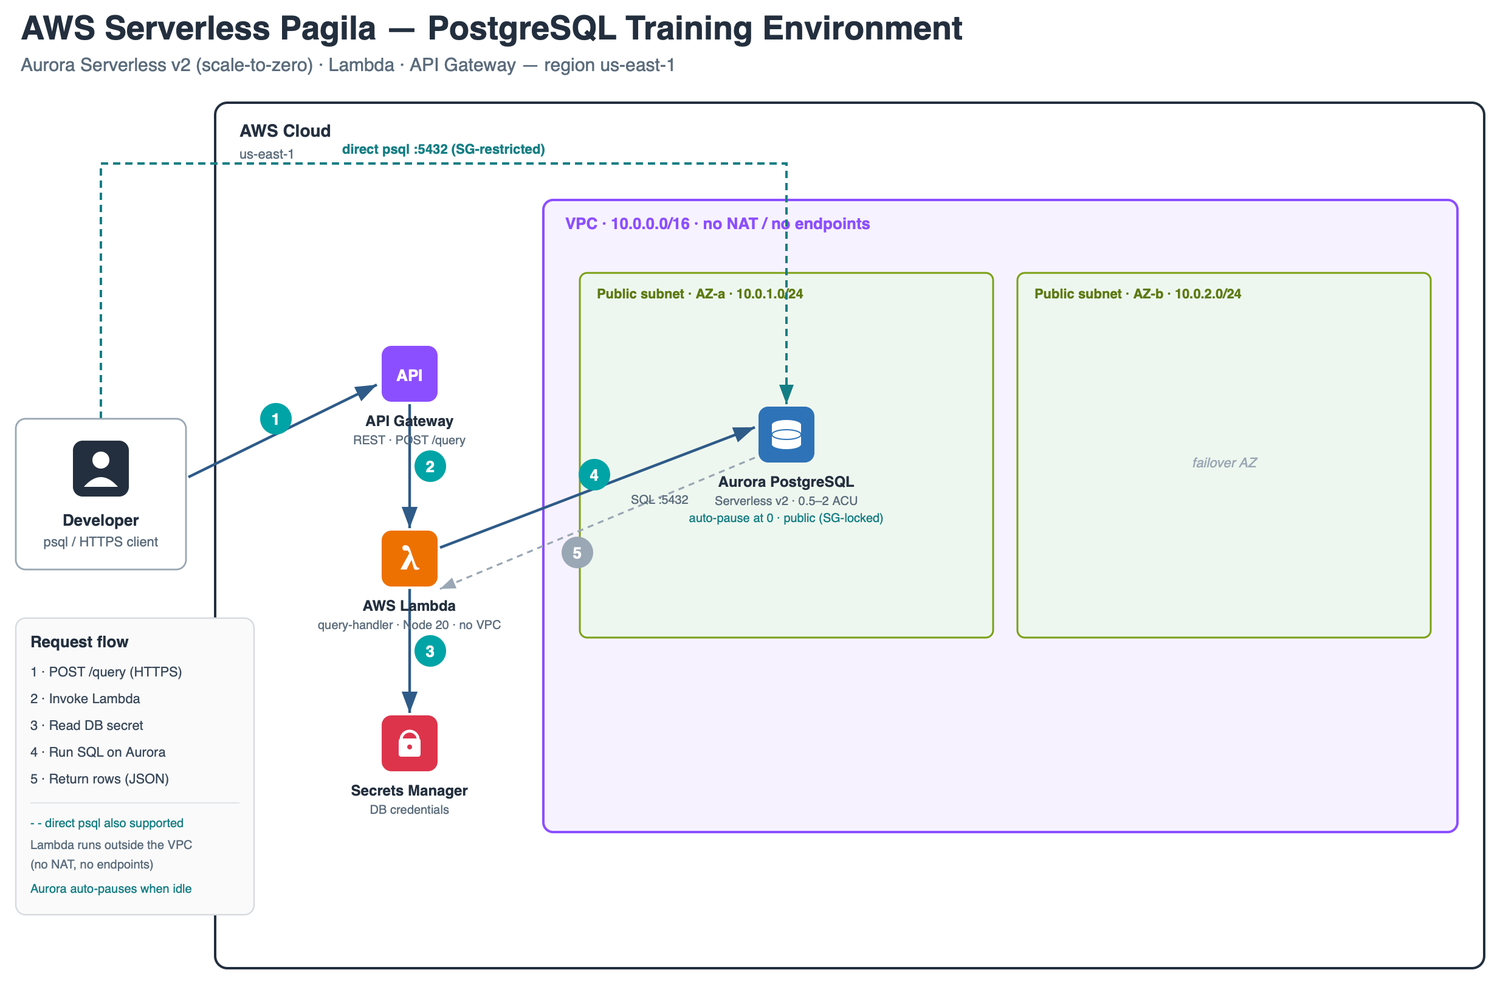
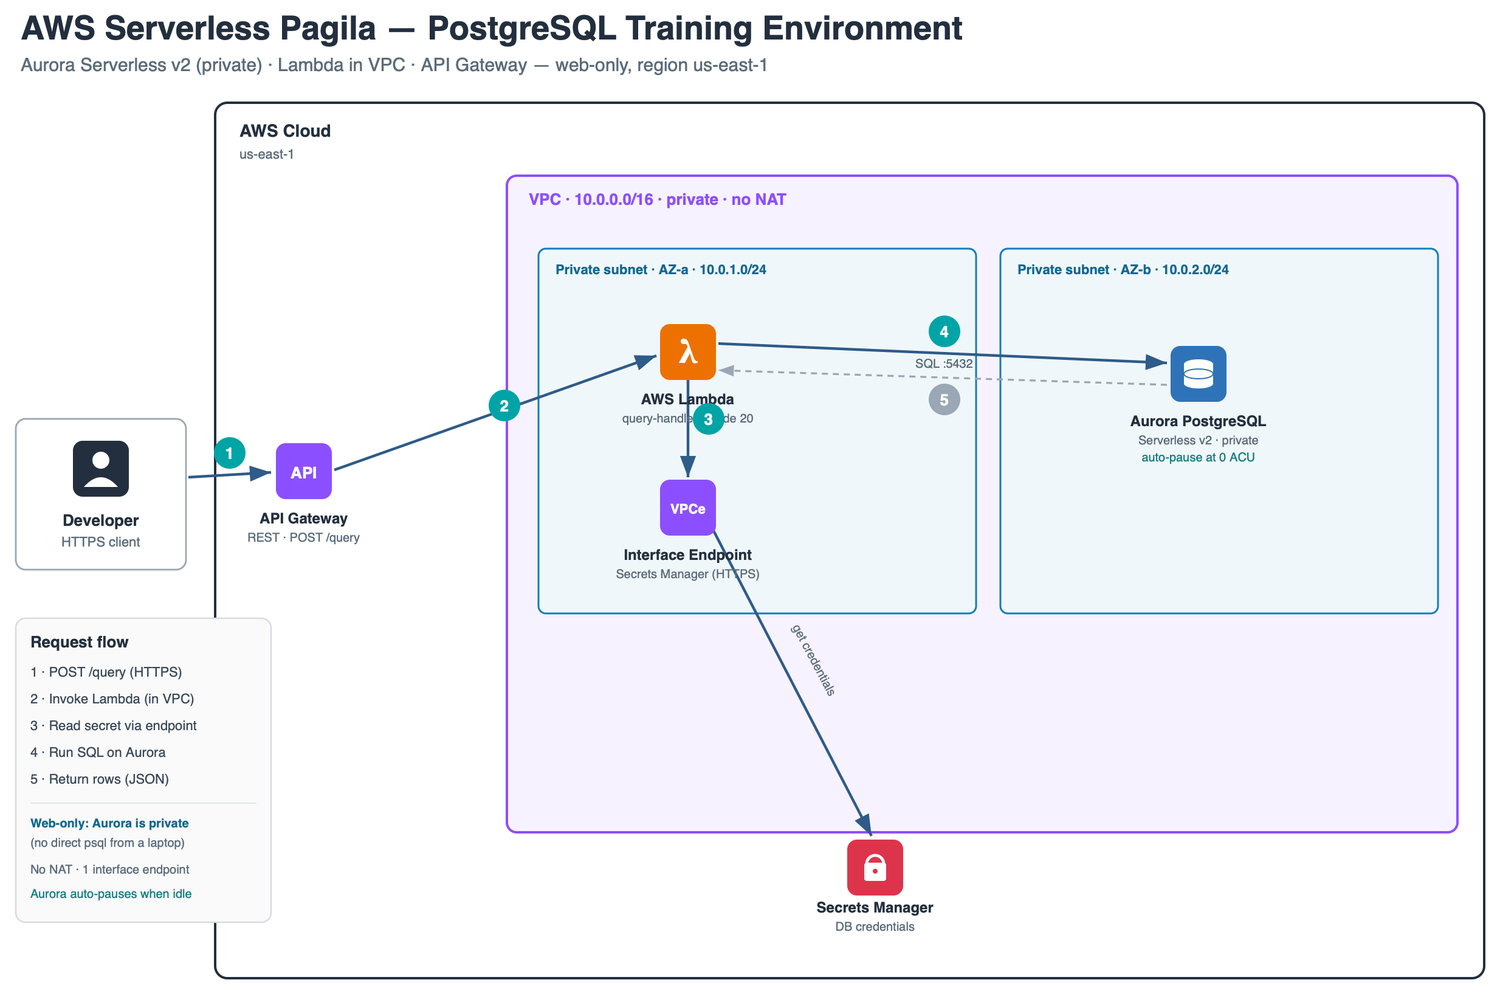
feat(cdk): private DB / web-only architecture (production-secure shape)
Per design decision: keep Aurora private instead of publicly reachable.

- Aurora Serverless v2 is now PubliclyAccessible=false in private isolated subnets
- Lambda runs inside the VPC; a dedicated Lambda SG is the only ingress allowed
  to Aurora on 5432
- Secrets Manager interface VPC endpoint lets the in-VPC Lambda fetch credentials
  with no NAT gateway (CloudWatch Logs need no endpoint)
- API Gateway is the only entry point; direct psql from a laptop is intentionally
  not supported (DB has no public endpoint)
- Drop allowedCidr/public-access config

Verified with cdk synth (exit 0): db.serverless PubliclyAccessible=false,
ServerlessV2 min 0, Lambda VpcConfig present, secretsmanager Interface endpoint,
0 NAT gateways, 0 internet gateways.

Diagram (svg/drawio/png) updated to the private/web-only shape.

diff --git a/infrastructure/cdk/lib/pagila-stack.ts b/infrastructure/cdk/lib/pagila-stack.ts
@@ -14,20 +14,23 @@ interface PagilaStackProps extends cdk.StackProps {
   dbMaxCapacity?: number;
   dbUsername?: string;
   environment?: string;
-  /** CIDR allowed to reach Aurora on 5432 (direct psql + Lambda). */
-  allowedCidr?: string;
 }
 
 /**
  * PagilaStack - AWS CDK infrastructure for the Pagila PostgreSQL training database.
  *
- * Minimum-cost serverless shape:
- * - Aurora PostgreSQL Serverless v2 with scale-to-zero (auto-pauses when idle)
- * - Publicly accessible (security-group restricted) so a laptop can connect with psql
- * - Lambda (bundled with esbuild) runs OUTSIDE the VPC, so there is no NAT gateway
- *   and no interface endpoints to pay for - it reaches Secrets Manager and the
- *   Aurora public endpoint directly
- * - API Gateway REST API for the web/query path
+ * Private / web-only shape (production-style):
+ * - Aurora PostgreSQL Serverless v2 with scale-to-zero, NOT publicly accessible,
+ *   in private isolated subnets
+ * - Lambda runs INSIDE the VPC (private subnets); its security group is the only
+ *   thing allowed to reach Aurora on 5432
+ * - A Secrets Manager interface VPC endpoint lets the in-VPC Lambda fetch the DB
+ *   credentials without a NAT gateway
+ * - API Gateway REST API is the only entry point (no direct psql from a laptop)
+ *
+ * Note: because Aurora is private, the database must be seeded from inside the VPC
+ * (e.g. a one-off seeder Lambda/CodeBuild). Running scripts/init-database.py from a
+ * laptop will not reach it.
  */
 export class PagilaStack extends cdk.Stack {
   public readonly auroraEndpoint: string;
@@ -45,22 +48,15 @@ export class PagilaStack extends cdk.Stack {
     const dbMaxCapacity = props?.dbMaxCapacity ?? this.node.tryGetContext('dbMaxCapacity') ?? 2;
     const dbUsername = props?.dbUsername ?? 'postgres';
     const environment = props?.environment ?? this.node.tryGetContext('environment') ?? 'training';
-    const allowedCidr = props?.allowedCidr ?? this.node.tryGetContext('allowedCidr') ?? '0.0.0.0/0';
     const dbName = 'pagila';
     const dbPort = 5432;
 
-    if (allowedCidr === '0.0.0.0/0') {
-      cdk.Annotations.of(this).addWarning(
-        'Aurora is reachable from 0.0.0.0/0 on 5432 (protected only by the DB password). ' +
-        'For tighter security set -c allowedCidr=<your.ip>/32 (note: this also restricts the ' +
-        'web/Lambda path, which connects from AWS IP space).'
-      );
-    }
-
     // ========================================
-    // 1. VPC & NETWORKING
-    // Public subnets only, no NAT gateway (NAT would cost ~$32/mo each and defeat
-    // the "minimum cost" goal). Aurora lives here and is publicly accessible.
+    // 1. VPC & SECURITY GROUPS
+    // Private isolated subnets only: no internet gateway, no NAT. Everything the
+    // Lambda needs is reached in-VPC (Aurora) or via an interface endpoint (Secrets
+    // Manager). CloudWatch Logs from Lambda do not traverse the VPC, so no log
+    // endpoint is required.
     // ========================================
     const vpc = new ec2.Vpc(this, 'PagilaVpc', {
       ipAddresses: ec2.IpAddresses.cidr(vpcCidr),
@@ -69,25 +65,52 @@ export class PagilaStack extends cdk.Stack {
       subnetConfiguration: [
         {
           cidrMask: 24,
-          name: 'Public',
-          subnetType: ec2.SubnetType.PUBLIC,
+          name: 'Private',
+          subnetType: ec2.SubnetType.PRIVATE_ISOLATED,
         },
       ],
     });
 
+    // SG for the Lambda (source of all DB + endpoint traffic)
+    const lambdaSecurityGroup = new ec2.SecurityGroup(this, 'LambdaSecurityGroup', {
+      vpc,
+      description: 'Pagila query Lambda',
+      allowAllOutbound: true,
+    });
+
+    // SG for Aurora: only the Lambda SG may connect on 5432
     const dbSecurityGroup = new ec2.SecurityGroup(this, 'AuroraSecurityGroup', {
       vpc,
-      description: 'Security group for Aurora PostgreSQL (Pagila)',
+      description: 'Aurora PostgreSQL (Pagila) - Lambda access only',
       allowAllOutbound: true,
     });
     dbSecurityGroup.addIngressRule(
-      ec2.Peer.ipv4(allowedCidr),
+      lambdaSecurityGroup,
       ec2.Port.tcp(dbPort),
-      'PostgreSQL access (psql + Lambda)'
+      'PostgreSQL from the query Lambda'
     );
 
+    // SG for the interface endpoint: HTTPS from the Lambda SG
+    const endpointSecurityGroup = new ec2.SecurityGroup(this, 'EndpointSecurityGroup', {
+      vpc,
+      description: 'Secrets Manager interface endpoint',
+      allowAllOutbound: true,
+    });
+    endpointSecurityGroup.addIngressRule(
+      lambdaSecurityGroup,
+      ec2.Port.tcp(443),
+      'HTTPS from the query Lambda'
+    );
+
+    // Interface endpoint so the in-VPC Lambda can call Secrets Manager (no NAT).
+    vpc.addInterfaceEndpoint('SecretsManagerEndpoint', {
+      service: ec2.InterfaceVpcEndpointAwsService.SECRETS_MANAGER,
+      securityGroups: [endpointSecurityGroup],
+      privateDnsEnabled: true,
+    });
+
     // ========================================
-    // 2. AURORA POSTGRESQL - SERVERLESS V2 (scale-to-zero)
+    // 2. AURORA POSTGRESQL - SERVERLESS V2 (private, scale-to-zero)
     // ========================================
     const dbCluster = new rds.DatabaseCluster(this, 'PagilaCluster', {
       engine: rds.DatabaseClusterEngine.auroraPostgres({
@@ -98,13 +121,12 @@ export class PagilaStack extends cdk.Stack {
       }),
       defaultDatabaseName: dbName,
       vpc,
-      vpcSubnets: { subnetType: ec2.SubnetType.PUBLIC },
+      vpcSubnets: { subnetType: ec2.SubnetType.PRIVATE_ISOLATED },
       securityGroups: [dbSecurityGroup],
-      // Serverless v2 capacity range. minCapacity 0 => auto-pause when idle.
-      serverlessV2MinCapacity: dbMinCapacity,
+      serverlessV2MinCapacity: dbMinCapacity, // 0 => auto-pause when idle
       serverlessV2MaxCapacity: dbMaxCapacity,
       writer: rds.ClusterInstance.serverlessV2('Writer', {
-        publiclyAccessible: true,
+        publiclyAccessible: false,
         autoMinorVersionUpgrade: true,
       }),
       backup: { retention: cdk.Duration.days(7) },
@@ -121,9 +143,7 @@ export class PagilaStack extends cdk.Stack {
     this.dbSecretArn = dbSecret.secretArn;
 
     // ========================================
-    // 3. LAMBDA - QUERY EXECUTOR (bundled, outside the VPC)
-    // NodejsFunction transpiles query-handler.ts and bundles `pg` via esbuild.
-    // @aws-sdk/* is provided by the Node 20 runtime, so it is left external.
+    // 3. LAMBDA - QUERY EXECUTOR (bundled, in private subnets)
     // ========================================
     const queryFunction = new NodejsFunction(this, 'PagilaQueryFunction', {
       runtime: lambda.Runtime.NODEJS_20_X,
@@ -131,6 +151,9 @@ export class PagilaStack extends cdk.Stack {
       handler: 'handler',
       timeout: cdk.Duration.seconds(60), // allow for first-query Aurora resume from pause
       memorySize: 256,
+      vpc,
+      vpcSubnets: { subnetType: ec2.SubnetType.PRIVATE_ISOLATED },
+      securityGroups: [lambdaSecurityGroup],
       environment: {
         DB_SECRET_NAME: dbSecret.secretArn,
         DB_HOST: dbCluster.clusterEndpoint.hostname,
@@ -155,7 +178,7 @@ export class PagilaStack extends cdk.Stack {
     this.lambdaFunctionName = queryFunction.functionName;
 
     // ========================================
-    // 4. API GATEWAY - REST API
+    // 4. API GATEWAY - REST API (only entry point)
     // ========================================
     const api = new apigateway.RestApi(this, 'PagilaAPI', {
       restApiName: 'pagila-query-api',
@@ -183,7 +206,7 @@ export class PagilaStack extends cdk.Stack {
     // ========================================
     new cdk.CfnOutput(this, 'AuroraEndpoint', {
       value: dbCluster.clusterEndpoint.hostname,
-      description: 'Aurora PostgreSQL cluster endpoint',
+      description: 'Aurora PostgreSQL cluster endpoint (private - reachable only inside the VPC)',
     });
     new cdk.CfnOutput(this, 'AuroraPort', {
       value: dbPort.toString(),
@@ -200,10 +223,6 @@ export class PagilaStack extends cdk.Stack {
     new cdk.CfnOutput(this, 'APIEndpoint', {
       value: api.url,
       description: 'API Gateway endpoint URL for query execution',
-    });
-    new cdk.CfnOutput(this, 'GetSecretCommand', {
-      value: `aws secretsmanager get-secret-value --secret-id ${dbSecret.secretArn} --query SecretString --output text`,
-      description: 'Command to retrieve the generated DB password',
     });
   }
 }

diff --git a/infrastructure/cdk/bin/pagila.ts b/infrastructure/cdk/bin/pagila.ts
@@ -24,7 +24,6 @@ const pagilaStack = new PagilaStack(app, 'PagilaStack', {
   dbMaxCapacity: app.node.tryGetContext('dbMaxCapacity') ?? 2,
   dbUsername: app.node.tryGetContext('dbUsername') ?? 'postgres',
   environment: app.node.tryGetContext('environment') ?? 'training',
-  allowedCidr: app.node.tryGetContext('allowedCidr') ?? '0.0.0.0/0',
   tags: {
     Project: 'Pagila',
     Environment: app.node.tryGetContext('environment') || 'training',